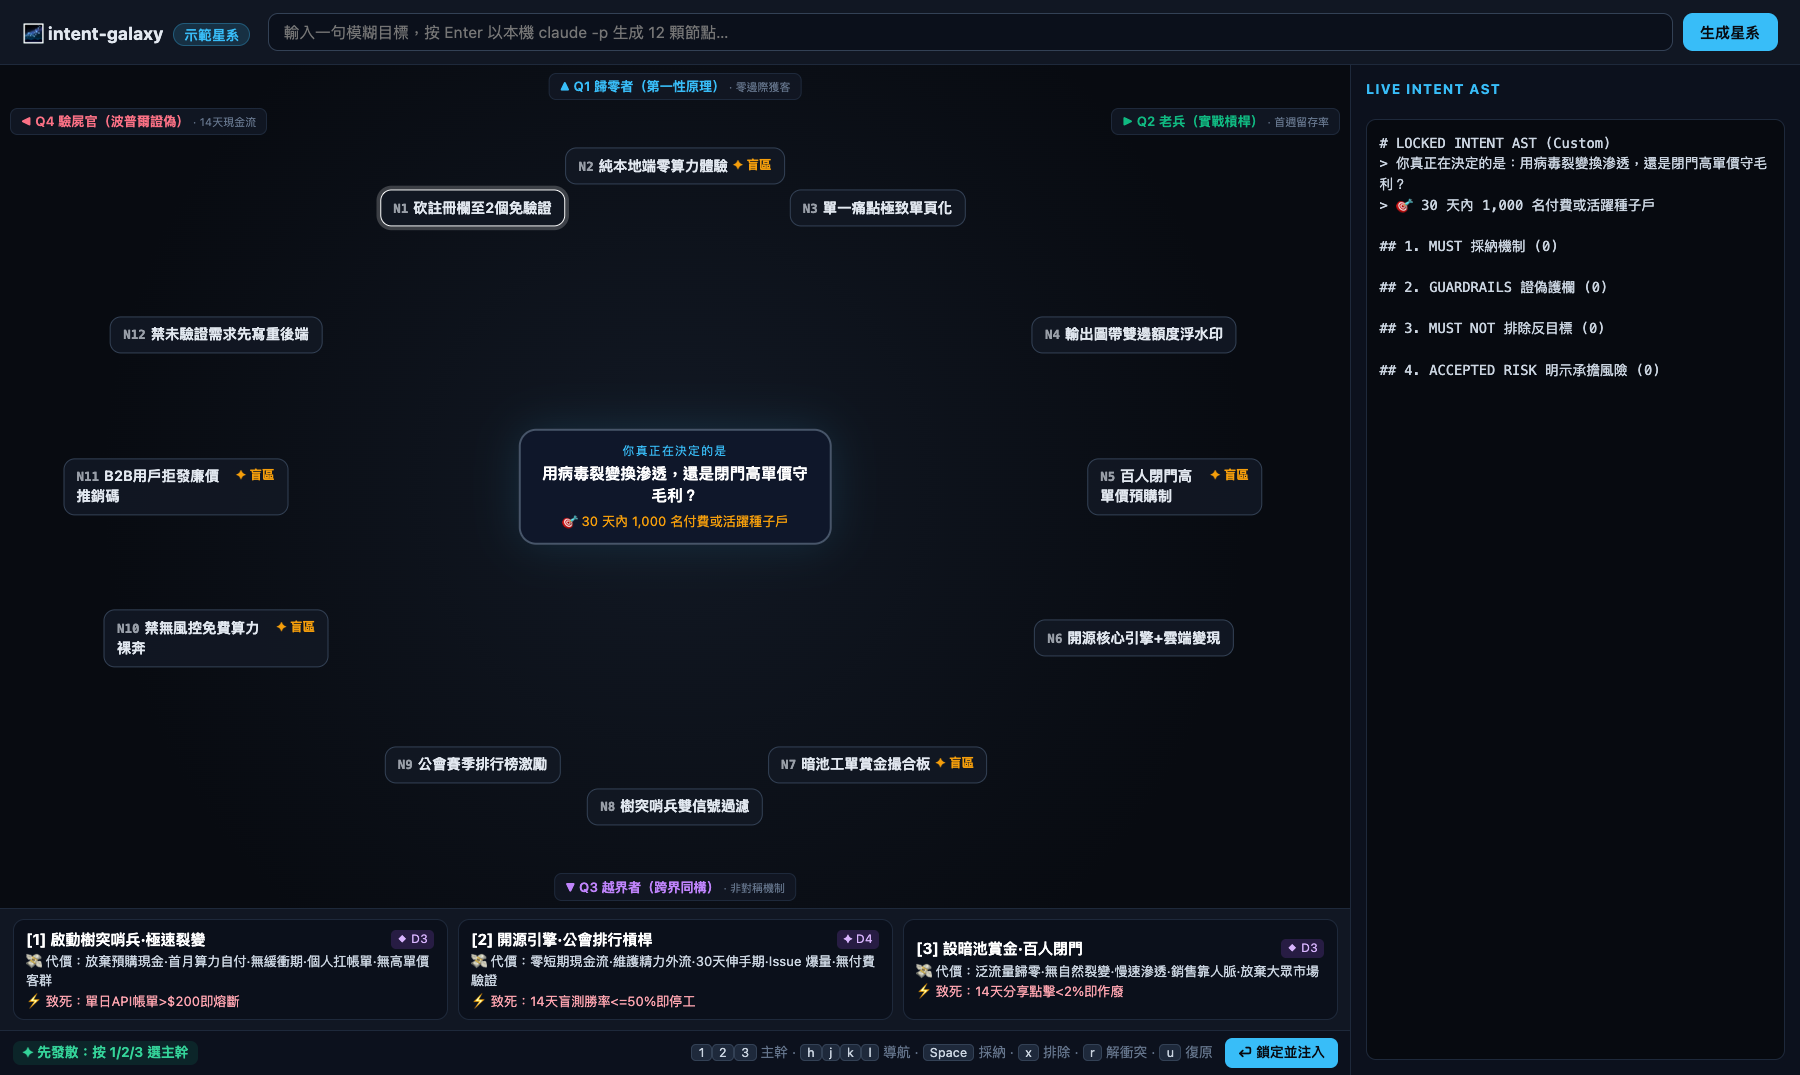
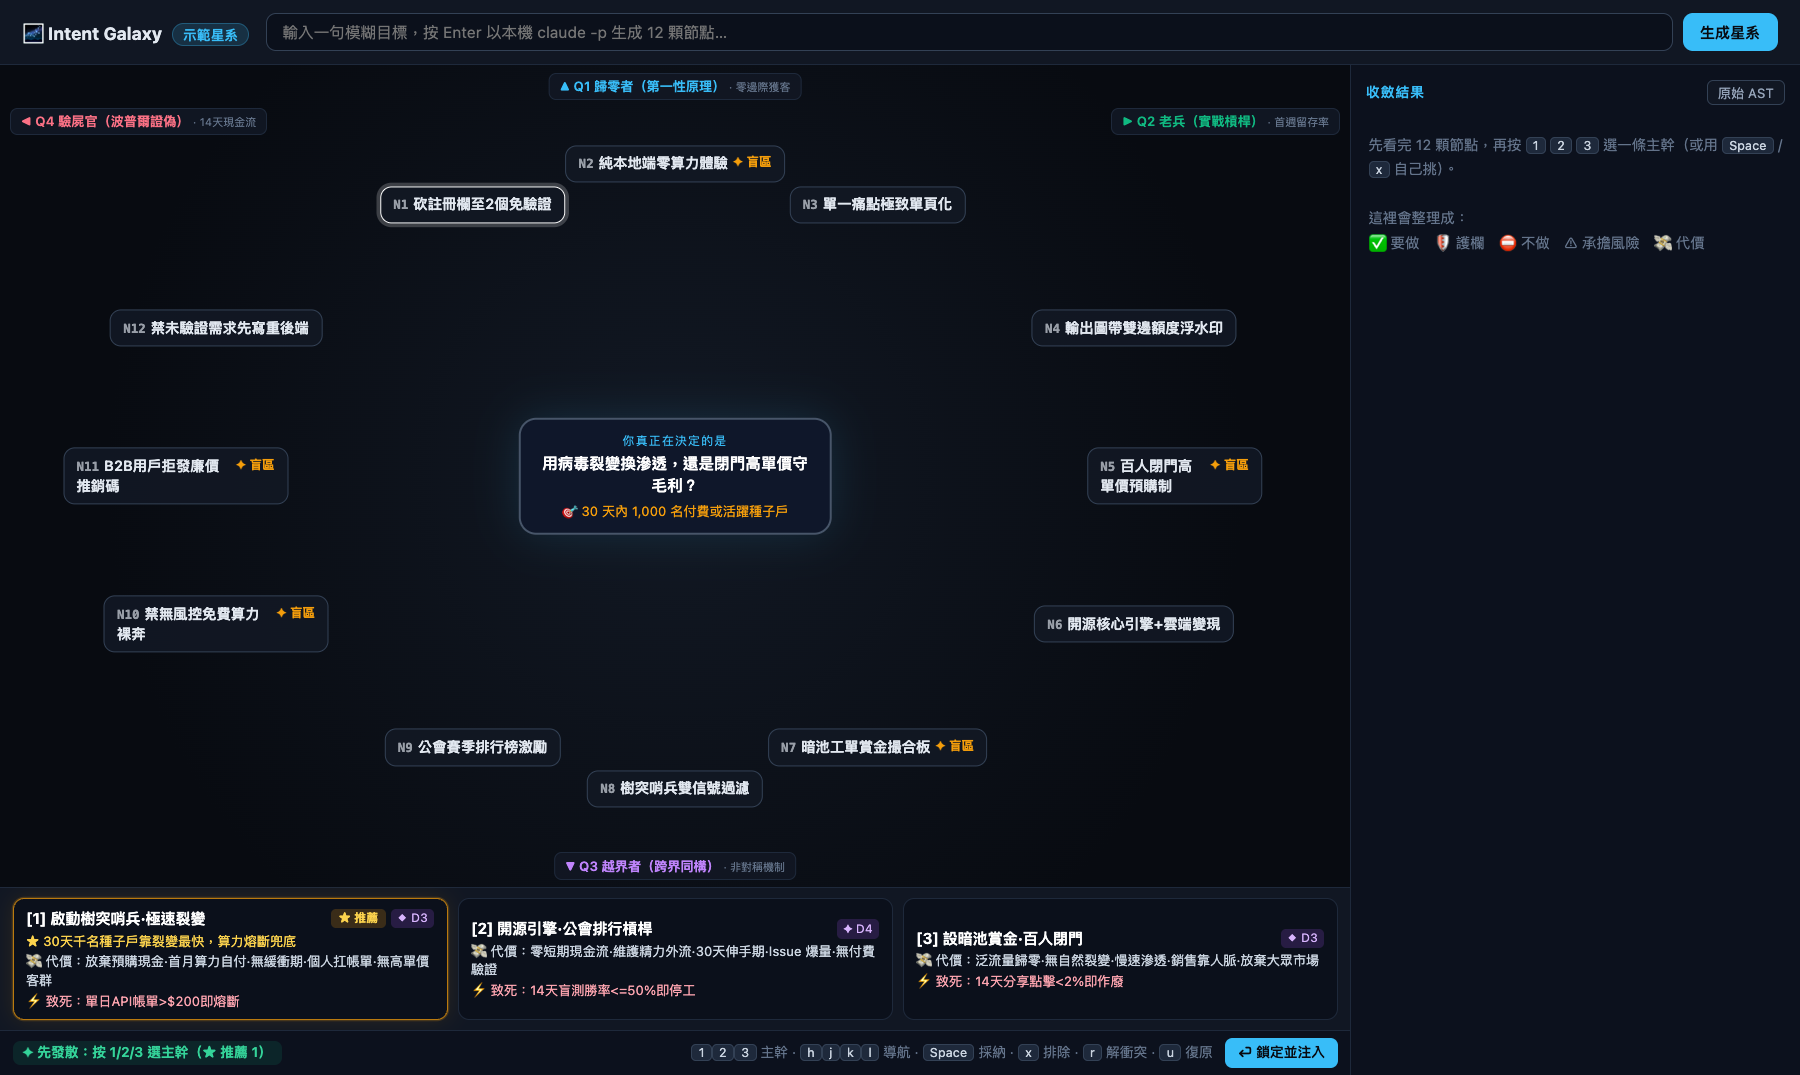
Highlight the recommended strategy card and replace the raw AST panel with a readable summary

diff --git a/apps/web/galaxy-overlay.js b/apps/web/galaxy-overlay.js
@@ -66,6 +66,11 @@ svg { position:absolute; inset:0; width:100%; height:100%; pointer-events:none; 
 #cards { display:grid; grid-template-columns:repeat(3,1fr); gap:8px; padding:8px 10px; background:var(--panel); border-top:1px solid var(--border); }
 .card { background:#0b101b; border:1.5px solid var(--border); border-radius:9px; padding:7px 10px; cursor:pointer; font:inherit; color:inherit; text-align:left; }
 .card.active { border-color:var(--q1); background:rgba(56,189,248,.07); }
+.card.rec { border-color:rgba(245,158,11,.75); box-shadow:0 0 0 1px rgba(245,158,11,.2), 0 0 18px rgba(245,158,11,.12); }
+.card.rec.active { border-color:var(--q1); }
+.card .badges { display:flex; gap:4px; }
+.card .rec-badge { font-size:9.5px; padding:1px 6px; border-radius:4px; background:rgba(245,158,11,.2); color:#fcd34d; font-weight:700; white-space:nowrap; }
+.card .why { font-size:10.5px; color:#fcd34d; margin-top:2px; }
 .card.ghost { border-style:dashed; color:var(--muted); cursor:default; }
 .card .head { display:flex; justify-content:space-between; gap:6px; align-items:center; }
 .card .title { font-size:12px; font-weight:700; color:#fff; }
@@ -81,7 +86,25 @@ svg { position:absolute; inset:0; width:100%; height:100%; pointer-events:none; 
 kbd { background:#1e293b; color:#cbd5e1; padding:0 5px; border-radius:4px; font-size:10px; border:1px solid #334155; font-family:inherit; }
 #bar button { font:inherit; font-weight:700; padding:4px 10px; border-radius:6px; border:none; background:var(--q1); color:#080b11; cursor:pointer; }
 aside { grid-column:2; grid-row:1 / 4; display:flex; flex-direction:column; padding:12px; gap:8px; background:#0c111d; border-left:1px solid var(--border); min-height:0; }
+aside .head { display:flex; align-items:center; justify-content:space-between; }
 aside h2 { font-size:11px; letter-spacing:.8px; color:var(--q1); }
+aside .head button { font:inherit; font-size:10.5px; padding:2px 8px; border-radius:5px; border:1px solid #334155; background:#111723; color:#94a3b8; cursor:pointer; }
+#summary { flex:1; overflow:auto; display:flex; flex-direction:column; gap:10px; min-height:0; }
+#summary .empty { color:var(--muted); font-size:11.5px; line-height:1.7; padding:6px 2px; }
+#summary .empty.unsat { color:#fb7185; }
+#summary .plan { padding:9px 11px; border-radius:9px; background:rgba(56,189,248,.07); border:1px solid rgba(56,189,248,.25); }
+#summary .plan b { display:block; font-size:13px; color:#fff; }
+#summary .plan span { display:block; font-size:11px; color:#94a3b8; margin-top:2px; }
+#summary section { border-left:3px solid var(--c); padding:2px 0 2px 10px; }
+#summary h3 { font-size:11.5px; color:var(--c); margin-bottom:5px; font-weight:700; }
+#summary h3 small { color:var(--muted); font-weight:400; margin-left:4px; }
+#summary .item { margin-bottom:6px; }
+#summary .item b { font-size:12px; color:#f1f5f9; }
+#summary .item .nid { font:10px ui-monospace,monospace; color:var(--muted); margin-right:5px; }
+#summary .item .tag { font-size:9.5px; color:#94a3b8; border:1px dashed #475569; border-radius:4px; padding:0 4px; margin-left:5px; }
+#summary .item p { font-size:11px; color:#94a3b8; margin-top:1px; }
+#summary .chips { display:flex; flex-wrap:wrap; gap:5px; }
+#summary .chips span { font-size:11px; padding:2px 7px; border-radius:5px; background:#1e293b; color:#cbd5e1; }
 aside pre { flex:1; overflow:auto; background:#070a10; border:1px solid var(--border); border-radius:8px; padding:10px; font:11px/1.5 ui-monospace,monospace; color:#cbd5e1; white-space:pre-wrap; }
 aside .findings { font-size:10.5px; color:var(--gold); max-height:80px; overflow:auto; }
 `;
@@ -89,7 +112,7 @@ aside .findings { font-size:10.5px; color:var(--gold); max-height:80px; overflow
 export class IntentGalaxyOverlay extends HTMLElement {
   #analysis = null; #draft = null; #galaxyId = 0; #findings = [];
   #baseKey = null; #overrides = new Map(); #seq = 0; #focus = 0;
-  #undo = []; #redo = []; #hint = ""; #message = ""; #solution = null;
+  #undo = []; #redo = []; #hint = ""; #message = ""; #solution = null; #showRaw = false;
 
   constructor() {
     super();
@@ -100,7 +123,7 @@ export class IntentGalaxyOverlay extends HTMLElement {
       <footer id="bar"><span class="status"></span><span class="msg"></span>
         <span class="keys"><kbd>1</kbd><kbd>2</kbd><kbd>3</kbd> 主幹 · <kbd>h</kbd><kbd>j</kbd><kbd>k</kbd><kbd>l</kbd> 導航 · <kbd>Space</kbd> 採納 · <kbd>x</kbd> 排除 · <kbd>r</kbd> 解衝突 · <kbd>u</kbd> 復原</span>
         <button type="button" id="lock">⏎ 鎖定並注入</button></footer>
-      <aside><h2>LIVE INTENT AST</h2><div class="findings"></div><pre></pre></aside></div>`;
+      <aside><div class="head"><h2>收斂結果</h2><button type="button" id="raw-toggle">原始 AST</button></div><div class="findings"></div><div id="summary"></div><pre hidden></pre></aside></div>`;
     const root = this.shadowRoot;
     // 每次 render 都重建節點按鈕；點擊後把焦點拉回 host，鍵盤流才不會掉到 document.body。
     root.addEventListener("click", () => this.focus({ preventScroll: true }));
@@ -108,6 +131,7 @@ export class IntentGalaxyOverlay extends HTMLElement {
     root.getElementById("nodes").addEventListener("contextmenu", (e) => { e.preventDefault(); this.#onNodeClick(e, "exclude"); });
     root.getElementById("cards").addEventListener("click", (e) => { const k = e.target.closest("[data-arch]")?.dataset.arch; if (k) this.selectArchetype(k, e.shiftKey); });
     root.getElementById("lock").addEventListener("click", () => this.lock());
+    root.getElementById("raw-toggle").addEventListener("click", () => { this.#showRaw = !this.#showRaw; this.#render(); });
     this.addEventListener("keydown", (e) => this.#onKey(e));
   }
 
@@ -305,24 +329,50 @@ export class IntentGalaxyOverlay extends HTMLElement {
       return `<path d="M ${x} ${y} Q ${(x + 500) / 2} ${y} 500 300" stroke="#10b981" stroke-width="2.2" fill="none" stroke-dasharray="${sol.nodes[id].src === "derived" ? "5,5" : "none"}" opacity=".78"/>`;
     }).join("");
 
+    const rec = a?.recommend?.key;
     root.getElementById("cards").innerHTML = ARCH.map(([key, num]) => {
-      const c = archetypes[key];
+      const c = archetypes[key], isRec = rec === key;
       if (!c) return `<div class="card ghost"><div class="title">[${num}] ${draft ? "生成中…" : "—"}</div></div>`;
       const dist = Math.max(0, ...(c.include ?? []).map((id) => nodes[id]?.lateral?.dist ?? 0));
       const fatalKill = nodes[c.fatal]?.kill ?? "";
-      return `<button type="button" class="card ${this.#baseKey === key ? "active" : ""}" data-arch="${key}">
-        <div class="head"><span class="title">[${num}] ${esc(clip(c.title, 16))}</span>${DIST_BADGE[dist] ? `<span class="badge">${DIST_BADGE[dist]}</span>` : ""}</div>
+      const cls = ["card", this.#baseKey === key && "active", isRec && "rec"].filter(Boolean).join(" ");
+      return `<button type="button" class="${cls}" data-arch="${key}"${isRec ? ` title="主 Agent 推薦：${esc(a.recommend.why)}"` : ""}>
+        <div class="head"><span class="title">[${num}] ${esc(clip(c.title, 16))}</span><span class="badges">${isRec ? `<span class="rec-badge">★ 推薦</span>` : ""}${DIST_BADGE[dist] ? `<span class="badge">${DIST_BADGE[dist]}</span>` : ""}</span></div>
+        ${isRec && a.recommend.why ? `<div class="why">★ ${esc(clip(a.recommend.why, 30))}</div>` : ""}
         <div class="row">💸 代價：${esc(clip(renderSacrifice(c.sacrifice), 40))}</div>
         <div class="kill">⚡ 致死：${esc(clip(fatalKill, 30))}</div></button>`;
     }).join("");
 
     const status = root.querySelector("#bar .status");
     if (!sol) { status.className = "status wait"; status.textContent = draft ? `⋯ 串流中 ${Object.keys(nodes).length}/12` : "⋯ 等待星系"; }
-    else if (sol.status === "SAT") { status.className = "status sat"; status.textContent = this.#baseKey ? "✓ SAT 邏輯自洽" : "✦ 先發散：按 1/2/3 選主幹"; }
+    else if (sol.status === "SAT") { status.className = "status sat"; status.textContent = this.#baseKey ? "✓ SAT 邏輯自洽" : `✦ 先發散：按 1/2/3 選主幹${rec ? `（★ 推薦 ${ARCH.find(([k]) => k === rec)[1]}）` : ""}`; }
     else { status.className = "status unsat"; status.textContent = `✗ ${sol.status}${conflicts.size ? "：" + [...conflicts].join(" ⊗ ") : ""}`; }
     root.querySelector("#bar .msg").textContent = this.#hint ? `g 直達：${this.#hint}` : this.#message;
-    root.querySelector("aside pre").textContent = sol?.status === "SAT" ? renderLockedAst(a, sol, this.#baseKey) : "";
+    const pre = root.querySelector("aside pre"), summary = root.getElementById("summary");
+    pre.textContent = sol?.status === "SAT" ? renderLockedAst(a, sol, this.#baseKey) : "";
+    pre.hidden = !this.#showRaw; summary.hidden = this.#showRaw;
+    root.getElementById("raw-toggle").textContent = this.#showRaw ? "摘要" : "原始 AST";
+    summary.innerHTML = this.#summaryHtml(a, sol, conflicts);
     root.querySelector("aside .findings").textContent = this.#findings.filter((f) => f.level !== "fix").map((f) => `${f.code} ${f.msg}`).join("\n");
+  }
+
+  /** 右側摘要：把 LOCKED INTENT AST 的五個區塊改寫成人看得懂的分組卡片（極性規則同 renderLockedAst）。 */
+  #summaryHtml(a, sol, conflicts) {
+    if (!sol) return `<div class="empty">等待星系資料…</div>`;
+    if (sol.status !== "SAT") return `<div class="empty unsat">有互斥衝突${conflicts.size ? `：${[...conflicts].join(" ⊗ ")}` : ""}<br>按 <kbd>r</kbd> 保留較新決定，或改選其他節點。</div>`;
+    const picked = NODE_IDS.filter((id) => sol.nodes[id].stance !== "neutral");
+    if (!this.#baseKey && !picked.length) return `<div class="empty">先看完 12 顆節點，再按 <kbd>1</kbd> <kbd>2</kbd> <kbd>3</kbd> 選一條主幹（或用 <kbd>Space</kbd> / <kbd>x</kbd> 自己挑）。<br><br>這裡會整理成：<br>✅ 要做　🛡 護欄　⛔ 不做　⚠ 承擔風險　💸 代價</div>`;
+    const arch = this.#baseKey ? a.archetypes[this.#baseKey] : null;
+    const pick = (q4, stance) => NODE_IDS.filter((id) => (quadrantOf(id) === "Q4") === q4 && sol.nodes[id].stance === stance);
+    const item = (id, desc) => { const n = a.nodes[id]; return `<div class="item"><span class="nid">${id}</span><b>${esc(n.label)}</b>${sol.nodes[id].src === "derived" ? `<span class="tag">推導</span>` : sol.nodes[id].src === "user" ? `<span class="tag">手動</span>` : ""}<p>${esc(desc(n))}</p></div>`; };
+    const group = (icon, name, hint, color, ids, desc) => ids.length ? `<section style="--c:${color}"><h3>${icon} ${name}<small>${hint}</small></h3>${ids.map((id) => item(id, desc)).join("")}</section>` : "";
+    const sacrifice = arch ? ["p", "v", "t", "l", "x"].map((k) => arch.sacrifice?.[k]).filter(Boolean) : [];
+    return `<div class="plan"><b>${esc(arch?.title ?? "自訂組合")}</b>${arch?.thesis ? `<span>${esc(arch.thesis)}</span>` : ""}</div>`
+      + group("✅", "要做", `${pick(false, "include").length} 項`, "#10b981", pick(false, "include"), (n) => n.claim)
+      + group("🛡", "護欄", "出現就停", "#f59e0b", pick(true, "include"), (n) => n.kill || n.claim)
+      + group("⛔", "不做", "明確排除", "#f43f5e", pick(false, "exclude"), (n) => n.claim)
+      + group("⚠", "承擔風險", "已知但接受", "#fb923c", pick(true, "exclude"), (n) => n.claim)
+      + (sacrifice.length ? `<section style="--c:#a855f7"><h3>💸 代價<small>選這條必然失去</small></h3><div class="chips">${sacrifice.map((x) => `<span>${esc(x)}</span>`).join("")}</div></section>` : "");
   }
 }
 

diff --git a/libs/epistemic/src/prompt.ts b/libs/epistemic/src/prompt.ts
@@ -22,7 +22,8 @@ export const MASTER_SPAWNER_PROMPT = [
   "- sacrifice written in the world where the card SUCCEEDS (no 若/如果): nodes (N1..N9), p, v, t, l, x (each <=12字).",
   "- fatal = included Q4 node welded to card.",
   "- thesis <=24字, title <=14字 matching Verb+CrossDomainAnchor+Outcome.",
-  "S6 withheld_kill: the 4th attack class not used in N10-12."
+  "S6 recommend: key = the archetype you would pick to hit core.metric, why <=24字 citing the metric or a scarce resource.",
+  "S7 withheld_kill: the 4th attack class not used in N10-12."
 ].join("\n");
 
 // INTENT-SPEC-FINAL.md §3.1 Wire Schema，原文附給模型作為輸出形狀依據。
@@ -56,6 +57,7 @@ export interface IntentAnalysisResponse {
   };
   edges: Edge[];
   archetypes: { alpha: Archetype; beta?: Archetype; gamma?: Archetype };
+  recommend: { key: "alpha" | "beta" | "gamma"; why: string };
   withheld_kill: { attack: AttackClass; hits: AssumptionId; claim: string; kill: string; label: string };
 }
 

diff --git a/libs/core/src/repair.ts b/libs/core/src/repair.ts
@@ -105,6 +105,9 @@ export function repairAnalysis(input: unknown): RepairResult {
   }
   for (const k of Object.keys(a.archetypes)) if (!(ARCHETYPE_KEYS as readonly string[]).includes(k)) { delete a.archetypes[k]; fix("V8", `移除未知策略卡 ${k}`); }
   if (!a.archetypes.alpha) return fail("V8", "缺少 archetypes.alpha");
+  // V19 recommend 必須指向現存策略卡；無效時移除（UI 只是不標示推薦）
+  if (a.recommend !== undefined && !(isObj(a.recommend) && a.archetypes[a.recommend.key])) { delete a.recommend; warn("V19", "recommend 未指向現存策略卡，已移除"); }
+  else if (a.recommend && typeof a.recommend.why !== "string") a.recommend.why = "";
 
   // V18 每張卡的 include/exclude 在可行解空間內可同時成立
   const model = buildModel(a as IntentAnalysisResponse);

diff --git a/apps/web/index.html b/apps/web/index.html
@@ -20,7 +20,7 @@
 </head>
 <body>
 <header>
-  <div class="brand">🌌 intent-galaxy<span class="badge" id="source-badge">示範星系</span></div>
+  <div class="brand">🌌 Intent Galaxy<span class="badge" id="source-badge">示範星系</span></div>
   <form id="goal-form">
     <input id="goal" type="text" autocomplete="off" placeholder="輸入一句模糊目標，按 Enter 以本機 claude -p 生成 12 顆節點…">
     <button type="submit" id="spawn-btn">生成星系</button>

diff --git a/libs/protocol/src/index.ts b/libs/protocol/src/index.ts
@@ -39,6 +39,8 @@ export interface IntentAnalysisResponse {
   };
   edges: Edge[];
   archetypes: { alpha: Archetype; beta?: Archetype; gamma?: Archetype };
+  /** 主 Agent 的預設推薦（Stage 1 產出；舊資料可缺）。只標示，不自動套用。 */
+  recommend?: { key: ArchetypeKey; why: string };
   withheld_kill?: { attack: AttackClass; hits: AssumptionId; claim: string; kill: string; label: string };
 }
 export type ArchetypeKey = "alpha" | "beta" | "gamma";

diff --git a/apps/web/sample-galaxy.js b/apps/web/sample-galaxy.js
@@ -64,5 +64,6 @@ export const SAMPLE_GALAXY = {
       fatal: "N11", thesis: "暗池賞金鎖住頂尖用戶，百席守毛利", title: "設暗池賞金·百人閉門",
     },
   },
+  recommend: { key: "alpha", why: "30天千名種子戶靠裂變最快，算力熔斷兜底" },
   withheld_kill: { attack: "single_point_failure", hits: "A4", claim: "核心依賴單一模型供應商", kill: "供應商漲價30%即作廢", label: "斷供單點" },
 };

diff --git a/INTENT-SPEC-FINAL.md b/INTENT-SPEC-FINAL.md
@@ -18,6 +18,8 @@
 3. **[15s - 30s] 3 選 1 主幹收斂 (Archetype Convergence)**：
    - 畫面底部（或右側面板）並列呈現 3 張互斥的收斂策略卡（1/2/3）。
    - 每張卡濃縮為 3 行核心資訊：① 破局標題（內嵌跨界錨點，如「啟動暗池工單簿·終結過勞」）+ 距離徽章（◈D2/⬥D3/✦D4）、② 必然代價（sacrifice.rendered <= 40字）、③ 14天致死前提（fatal.kill <= 30字）。
+   - 主 Agent 推薦卡（`recommend.key`）以金色外框與「★ 推薦」標記並附一行推薦理由（`recommend.why` <= 24字），但不自動套用，保留「先發散」由用戶親手選擇。
+   - 右側面板以人類可讀的分組卡片呈現收斂結果（✅ 要做 / 🛡 護欄 / ⛔ 不做 / ⚠ 承擔風險 / 💸 代價，每項顯示節點標題與一句說明）；實際注入的 `LOCKED INTENT AST` 原文收在「原始 AST」切換檢視。
    - 當用戶點擊任一策略卡（或按數字鍵 1 / 2 / 3）時：星系圖瞬間點亮該策略所採納的 4~6 顆節點，並沿象限外側固定軌道繪製能量連線匯聚至中心主幹；其餘未選中的 neutral 節點自動退為 40% 透明度背景（不畫連線）。
 4. **[30s - 50s] 跨專家節點混音與矛盾合成 (Node Remix & TRIZ Collision)**：
    - 用戶在已點亮的主幹基礎上，看中其他專家象限的某顆節點時，可直接點擊或透過鍵盤流（h/j/k/l 導航，Space/I 納入、X 設為反義護欄/承擔風險、0/N 忽略）進行自由混音。
@@ -81,6 +83,7 @@ export interface IntentAnalysisResponse {
   };
   edges: Edge[];
   archetypes: { alpha: Archetype; beta?: Archetype; gamma?: Archetype };
+  recommend: { key: "alpha" | "beta" | "gamma"; why: string };
   withheld_kill: { attack: AttackClass; hits: AssumptionId; claim: string; kill: string; label: string };
 }
 
@@ -144,7 +147,8 @@ S5 archetypes (alpha=impact, beta=velocity, gamma=resilience):
 - sacrifice written in the world where the card SUCCEEDS (no 若/如果): nodes (N1..N9), p, v, t, l, x (each <=12字).
 - fatal = included Q4 node welded to card.
 - thesis <=24字, title <=14字 matching Verb+CrossDomainAnchor+Outcome.
-S6 withheld_kill: the 4th attack class not used in N10-12.
+S6 recommend: key = the archetype you would pick to hit core.metric, why <=24字 citing the metric or a scarce resource.
+S7 withheld_kill: the 4th attack class not used in N10-12.
 ```
 
 ---
